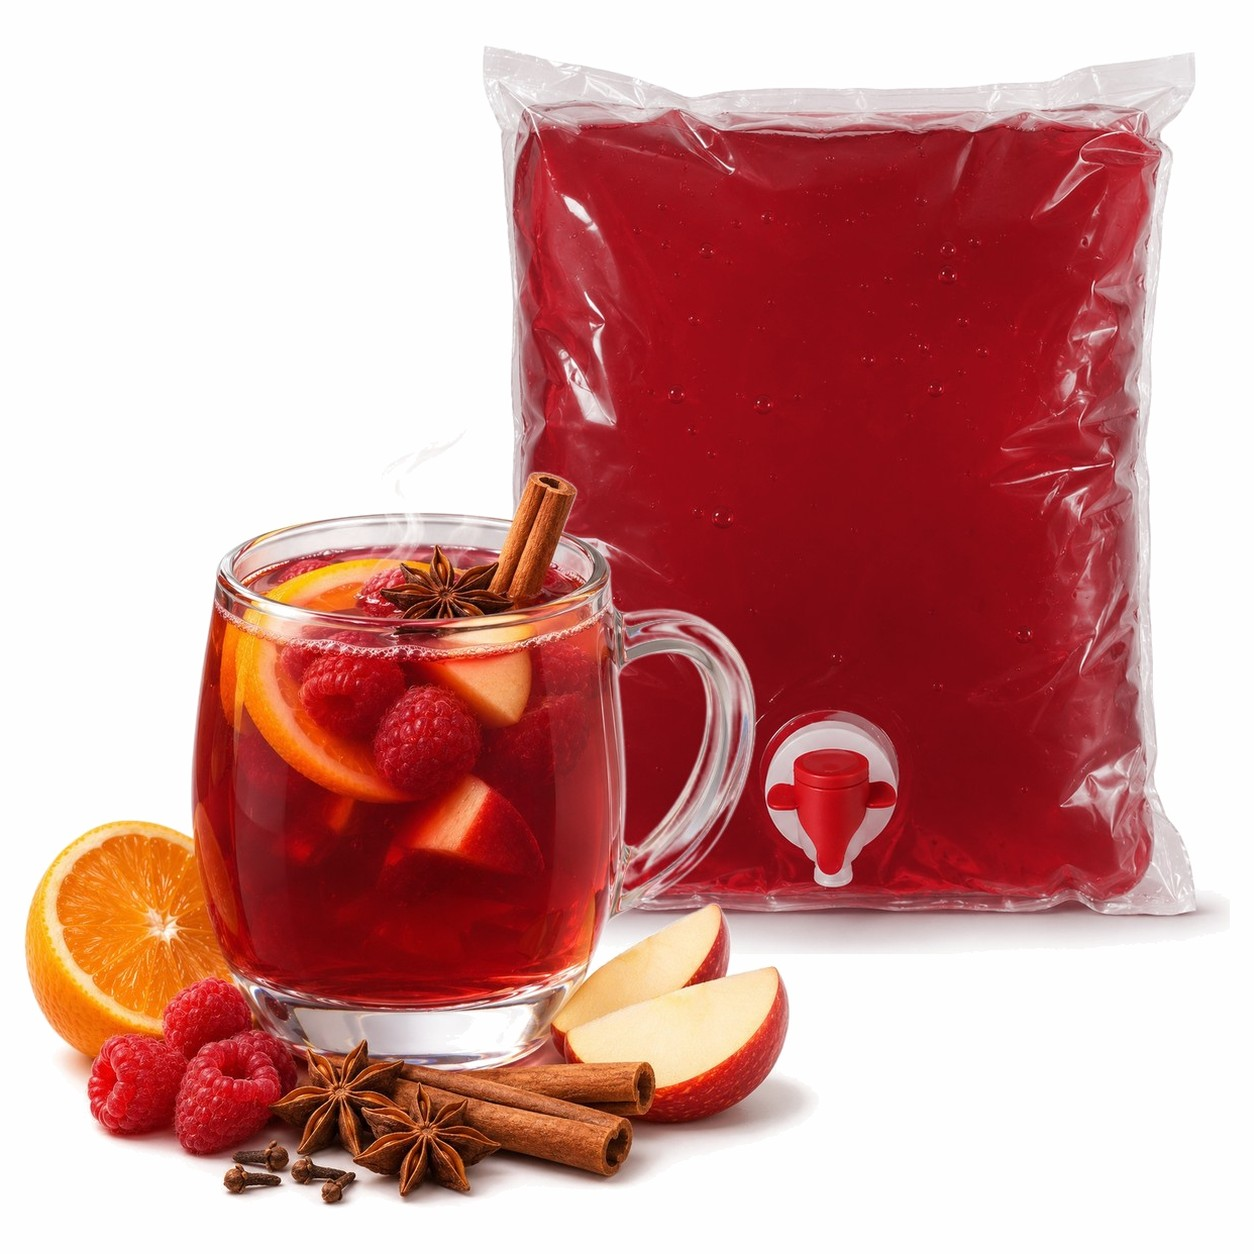
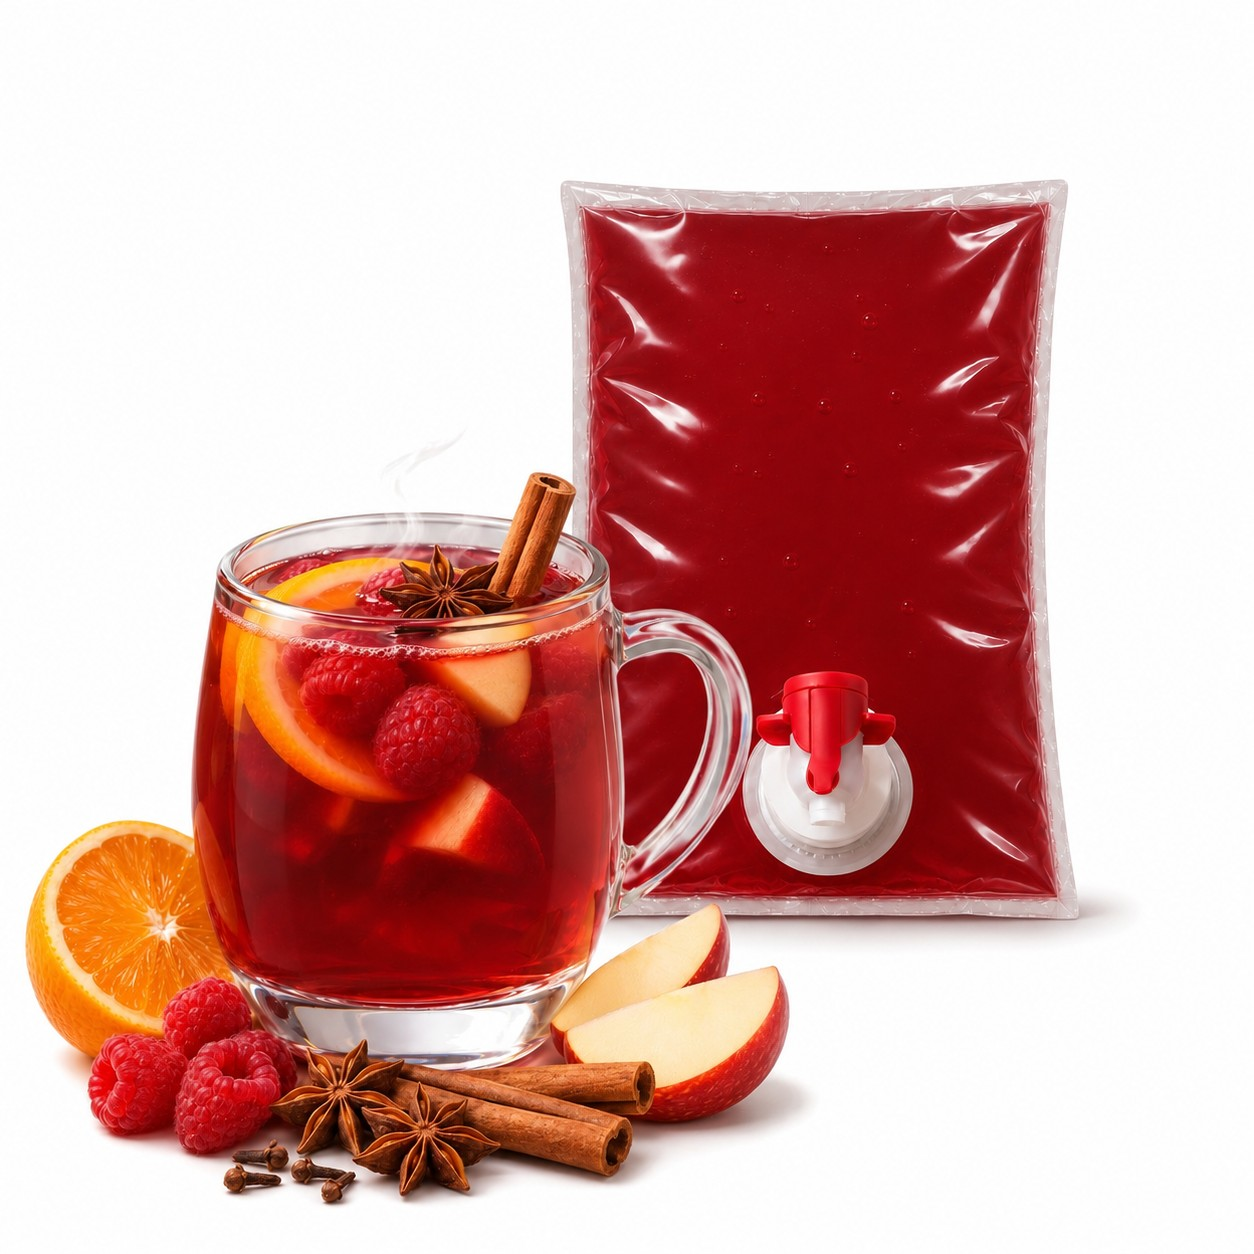
E-shop: Malinový svařák nealko – nová fotka s beginou
Claude-Session: https://claude.ai/code/session_016QL8fwi582oSosBu6SYFuT

diff --git a/dashboard/lib/eshop/productImages.ts b/dashboard/lib/eshop/productImages.ts
@@ -110,6 +110,7 @@ const BACKDROP: Record<string, string> = {
   "/eshop/koktejly/lady-carneval-sacek-v2.jpg": "#fefefe",
   "/eshop/ovocne-napoje/malinovy-svarak-nealko-hlavni-v2.jpg": "#fefefe",
   "/eshop/ovocne-napoje/malinovy-svarak-nealko-begina-v2.jpg": "#fefefe",
+  "/eshop/ovocne-napoje/malinovy-svarak-nealko-begina-v3.jpg": "#fefefe",
   "/eshop/polevky/gulasova-polevka-z-hlivy-ustricne-begina.jpg": "#fefefe",
   "/eshop/ovocne-napoje/cervankove-nebe-hlavni-v2.jpg": "#fefefe",
   "/eshop/ovocne-napoje/cervankove-nebe-hlavni-v3.jpg": "#fefefe",
